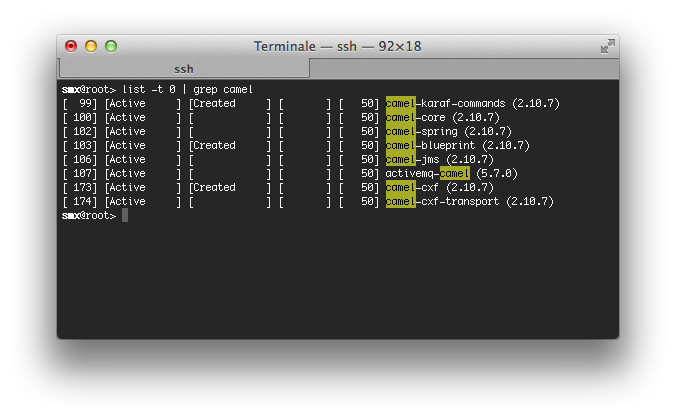
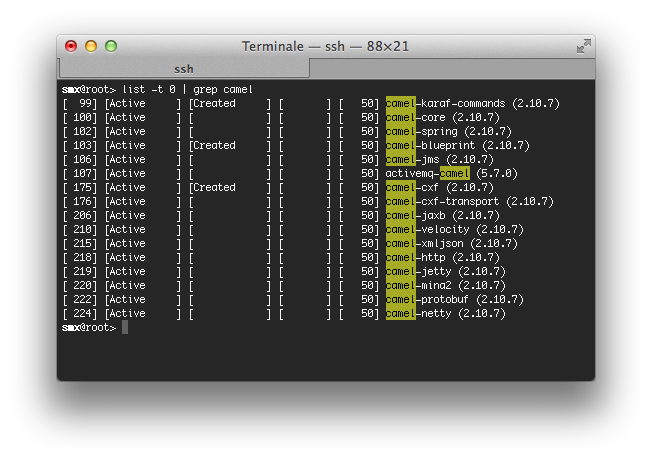
new image for camel bundles on servicemix

Changed region(s): [[0.0613, 0.0622, 0.9202, 0.8397]]

diff --git a/aperitivo_gdg_it.html b/aperitivo_gdg_it.html
@@ -478,20 +478,32 @@ Created-By: Apache Maven Bundle Plugin
       <h2>EIP Importanti</h2>
     </hgroup>
     <article>
-      <ul style="font-size: 0.65em;">
-        <li><b>Message Channel:</b> How does one application communicate with another using messaging?</li>
-        <li><b>Message:</b> How can two applications connected by a message channel exchange a piece of information?</li>
-        <li><b>Message Router:</b> How can you decouple individual processing steps so that messages can be passed to different filters depending on a set of conditions?</li>
-        <li><b>Message Translator:</b>  How can systems using different data formats communicate with each other using messaging?</li>
-        <li><b>Message Endpoint:</b> How does an application connect to a messaging channel to send and receive messages?</li>
-        <li><b>Dead Letter Channel:</b> What will the messaging system do with a message it cannot deliver?</li>
-        <li><b>Message Bus:</b>  What is an architecture that enables separate applications to work together, but in a decoupled fashion such that applications can be easily added or removed without affecting the others?</li>
-        <li><b>Command Message:</b> How can messaging be used to invoke a procedure in another application?</li>
-        <li><b>Document Message:</b> How can messaging be used to transfer data between applications?</li>
-        <li><b>Event Message:</b> How can messaging be used to transmit events from one application to another?</li>
-        <li><b>Request-Reply:</b> When an application sends a message, how can it get a response from the receiver?</li>
-        <li><b>Canonical Data Model:</b> How can you minimize dependencies when integrating applications that use different data formats?</li>
-      </ul>
+      <dl style="font-size: 0.65em;">
+        <dt>Message Channel:</dt>
+          <dd style="font-size: 0.65em;">How does one application communicate with another using messaging?</dd>
+        <dt>Message:</dt>
+          <dd style="font-size: 0.65em;">How can two applications connected by a message channel exchange a piece of information?</dd>
+        <dt>Message Router:</dt>
+          <dd style="font-size: 0.65em;">How can you decouple individual processing steps so that messages can be passed to different filters depending on a set of conditions?</dd>
+        <dt>Message Translator:</dt>
+          <dd style="font-size: 0.65em;"> How can systems using different data formats communicate with each other using messaging?</dd>
+        <dt>Message Endpoint:</dt>
+          <dd style="font-size: 0.65em;">How does an application connect to a messaging channel to send and receive messages?</dd>
+        <dt>Dead Letter Channel:</dt>
+          <dd style="font-size: 0.65em;">What will the messaging system do with a message it cannot deliver?</dd>
+        <dt>Message Bus:</dt>
+          <dd style="font-size: 0.65em;"> What is an architecture that enables separate applications to work together, but in a decoupled fashion such that applications can be easily added or removed without affecting the others?</dd>
+        <dt>Command Message:</dt>
+          <dd style="font-size: 0.65em;">How can messaging be used to invoke a procedure in another application?</dd>
+        <dt>Document Message:</dt>
+          <dd style="font-size: 0.65em;">How can messaging be used to transfer data between applications?</dd>
+        <dt>Event Message:</dt>
+          <dd style="font-size: 0.65em;">How can messaging be used to transmit events from one application to another?</dd>
+        <dt>Request-Reply:</dt>
+          <dd style="font-size: 0.65em;">When an application sends a message, how can it get a response from the receiver?</dd>
+        <dt>Canonical Data Model:</dt>
+          <dd style="font-size: 0.65em;">How can you minimize dependencies when integrating applications that use different data formats?</dd>
+      </dl>
     </article>
   </slide>
 
@@ -542,7 +554,7 @@ Created-By: Apache Maven Bundle Plugin
 
   <slide class="header-blue">
     <hgroup>
-      <h2>Come si implementano gli EIP?</h2>
+      <h2>Come implementare facilmente EIP?</h2>
       <h3>(domanda retorica)</h3>
     </hgroup>
     <article class="build">
@@ -577,7 +589,7 @@ Created-By: Apache Maven Bundle Plugin
     <hgroup>
       <h2>Esempio: Content Based Router</h2>
     </hgroup>
-    <article class="smaller">
+    <article class="smaller build">
       <img style="width:50%;" src="images/camel_image_2.png" alt="Content Based Router" title="Content Based Router" />
       <div>
         <q>
@@ -659,26 +671,26 @@ public class MyRoute extends RouteBuilder {
     <article class="smaller">
       <div style="height:460px;overflow:auto;margin-top:-30px;">
         <table>
-          <tr><th></th><td>ActiveMQ</td><td>ActiveMQ Broker</td><td>Activiti</td><td>AHC</td><td>AMQP</td><td>APNS</td><td>Atom</td><td>Avro</td></tr>
+          <tr><th></th><td class="highlight">ActiveMQ</td><td>ActiveMQ Broker</td><td>Activiti</td><td>AHC</td><td>AMQP</td><td>APNS</td><td>Atom</td><td>Avro</td></tr>
           <tr><th></th><td>AWS-CW</td><td>AWS-DDB</td><td>AWS-S3</td><td>AWS-SDB</td><td>AWS-SES</td><td>AWS-SNS</td><td>AWS-SQS</td><td>Bean</td></tr>
           <tr><th></th><td>Bean Validation</td><td>Browse</td><td>Cache</td><td>Class</td><td>CMIS</td><td>Cometd</td><td>Context</td><td>ControlBus</td></tr>
-          <tr><th></th><td>CouchDB</td><td>Crypto</td><td>CXF</td><td>CXF Bean </td><td>CXFRS</td><td>DataFormat</td><td>DataSet</td><td>Db4o</td></tr>
+          <tr><th></th><td>CouchDB</td><td>Crypto</td><td class="highlight">CXF</td><td>CXF Bean </td><td>CXFRS</td><td>DataFormat</td><td>DataSet</td><td>Db4o</td></tr>
           <tr><th></th><td>Direct</td><td>Direct-VM</td><td>Disruptor</td><td>DNS</td><td>EJB</td><td>ElasticSearch</td><td>Esper</td><td>EventAdmin</td></tr>
-          <tr><th></th><td>Exec</td><td>Facebook</td><td>File</td><td>Flatpack</td><td>FOP</td><td>FreeMarker</td><td>FTP</td><td>FTPS</td></tr>
+          <tr><th></th><td>Exec</td><td>Facebook</td><td class="highlight">File</td><td>Flatpack</td><td>FOP</td><td>FreeMarker</td><td class="highlight">FTP</td><td>FTPS</td></tr>
           <tr><th></th><td>GAuth</td><td>Geocoder</td><td>GHttp</td><td>GLogin</td><td>GMail</td><td>GTask</td><td>Guava EventBus</td><td>Hazelcast</td></tr>
-          <tr><th></th><td>HBase</td><td>HDFS</td><td>Hibernate</td><td>HL7</td><td>HTTP</td><td>HTTP4</td><td>iBATIS</td><td>IMAP</td></tr>
+          <tr><th></th><td>HBase</td><td>HDFS</td><td>Hibernate</td><td>HL7</td><td class="highlight">HTTP</td><td>HTTP4</td><td>iBATIS</td><td>IMAP</td></tr>
           <tr><th></th><td>IMAPS</td><td>Infinispan</td><td>IRC</td><td>JavaSpace</td><td>JBI</td><td>JCIFS</td><td>jclouds</td><td>JCR</td></tr>
-          <tr><th></th><td>JDBC</td><td>Jetty</td><td>JGroups</td><td>JMS</td><td>JMX</td><td>JPA</td><td>Jsch</td><td>JT/400 </td></tr>
-          <tr><th></th><td>Kestrel</td><td>Krati</td><td>Language</td><td>LDAP</td><td>Log</td><td>Lucene</td><td>MINA</td><td>MINA2</td></tr>
+          <tr><th></th><td>JDBC</td><td class="highlight">Jetty</td><td>JGroups</td><td>JMS</td><td>JMX</td><td>JPA</td><td>Jsch</td><td>JT/400 </td></tr>
+          <tr><th></th><td>Kestrel</td><td>Krati</td><td>Language</td><td>LDAP</td><td>Log</td><td>Lucene</td><td>MINA</td><td class="highlight">MINA2</td></tr>
           <tr><th></th><td>Mock</td><td>MongoDB</td><td>MQTT</td><td>MSV</td><td>Mustache</td><td>MVEL</td><td>MyBatis</td><td>Nagios</td></tr>
-          <tr><th></th><td>Netty</td><td>Netty HTTP</td><td>NMR</td><td>OptaPlanner</td><td>Pax-Logging</td><td>POP3</td><td>POP3S</td><td>Printer</td></tr>
+          <tr><th></th><td class="highlight">Netty</td><td>Netty HTTP</td><td>NMR</td><td>OptaPlanner</td><td>Pax-Logging</td><td>POP3</td><td>POP3S</td><td>Printer</td></tr>
           <tr><th></th><td>Properties</td><td>Quartz</td><td>Quartz2</td><td>Quickfix</td><td>RabbitMQ</td><td>RCode</td><td>Ref</td><td>Restlet</td></tr>
           <tr><th></th><td>RMI</td><td>RNC</td><td>RNG</td><td>Routebox</td><td>RSS</td><td>Salesforce</td><td>SAP NetWeaver</td><td>Scalate</td></tr>
           <tr><th></th><td>SEDA</td><td>SERVLET</td><td>SFTP</td><td>Sip</td><td>SJMS</td><td>Smooks</td><td>SMPP</td><td>SMTP</td></tr>
           <tr><th></th><td>SMTP</td><td>SNMP</td><td>Solr</td><td>Splunk</td><td>Spring Event</td><td>Spring LDAP</td><td>Spring Neo4j</td><td>Spring Redis</td></tr>
           <tr><th></th><td>Spring Web Services</td><td>SpringBatch</td><td>SpringIntegration</td><td>SQL</td><td>StAX</td><td>Stomp</td><td>Stream</td><td>StringTemplate</td></tr>
-          <tr><th></th><td>Stub</td><td>Test</td><td>Timer</td><td>Twitter</td><td>Validation</td><td>Velocity</td><td>Vertx</td><td>VirtualBox</td></tr>
-          <tr><th></th><td>VM</td><td>Weather</td><td>Websocket</td><td>XML Security </td><td>XMPP</td><td>XQuery</td><td>XSLT</td><td>Yammer</td></tr>
+          <tr><th></th><td>Stub</td><td>Test</td><td>Timer</td><td>Twitter</td><td>Validation</td><td class="highlight">Velocity</td><td>Vertx</td><td>VirtualBox</td></tr>
+          <tr><th></th><td class="highlight">VM</td><td>Weather</td><td>Websocket</td><td>XML Security </td><td>XMPP</td><td>XQuery</td><td class="highlight">XSLT</td><td>Yammer</td></tr>
           <tr><th></th><td>ZeroMQ</td><td>Zookeeper</td></tr>
         </table>
       </div>  
@@ -694,9 +706,9 @@ public class MyRoute extends RouteBuilder {
       <table>
         <tr><th></th><td>Avro</td><td>Base64</td><td>BeanIO</td><td>Bindy</td><td>Castor</td></tr>
         <tr><th></th><td>Crypto</td><td>CSV</td><td>EDI</td><td>Flatpack DataFormat</td><td>GZip data format</td></tr>
-        <tr><th></th><td>HL7 DataFormat</td><td>JAXB</td><td>JiBX</td><td>JSON</td><td>PGP</td></tr>
-        <tr><th></th><td>Protobuf</td><td>Serialization</td><td>SOAP</td><td>String</td><td>XmlBeans</td></tr>
-        <tr><th></th><td>XmlJson</td><td>XMLSecurity DataFormat</td><td>XStream</td><td>Zip DataFormat</td><td>Zip File DataFormat</td></tr>
+        <tr><th></th><td>HL7 DataFormat</td><td class="highlight">JAXB</td><td>JiBX</td><td class="highlight">JSON</td><td>PGP</td></tr>
+        <tr><th></th><td class="highlight">Protobuf</td><td class="highlight">Serialization</td><td>SOAP</td><td>String</td><td>XmlBeans</td></tr>
+        <tr><th></th><td class="highlight">XmlJson</td><td>XMLSecurity DataFormat</td><td>XStream</td><td>Zip DataFormat</td><td>Zip File DataFormat</td></tr>
       </table>
     </article>
   </slide>
@@ -706,7 +718,7 @@ public class MyRoute extends RouteBuilder {
       <h2>Camel in Servicemix</h2>
     </hgroup>
     <article>
-      <p>Una volta attivati i bundle di Camel... </p>
+      <p>Una volta attivati i bundle di Camel su Karaf-Servicemix... </p>
       <div class="build">
         <img src="images/camel_image_3.png" alt="Camel Bundles in Servicemix" title="Camel Bundles in Servicemix" />
       </div>
